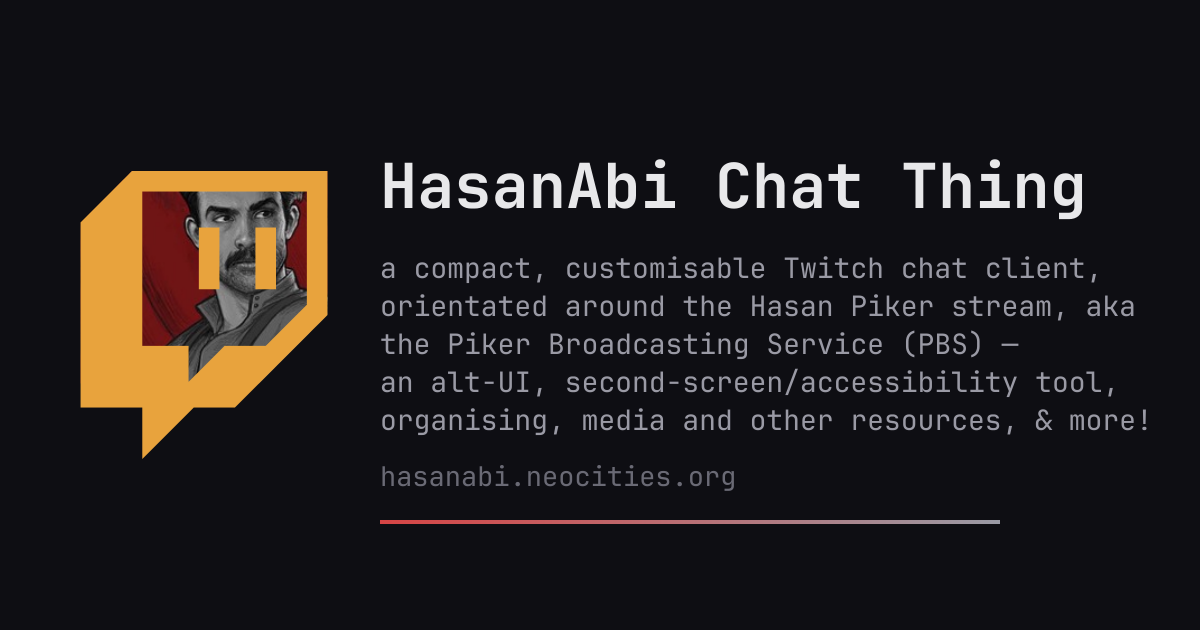
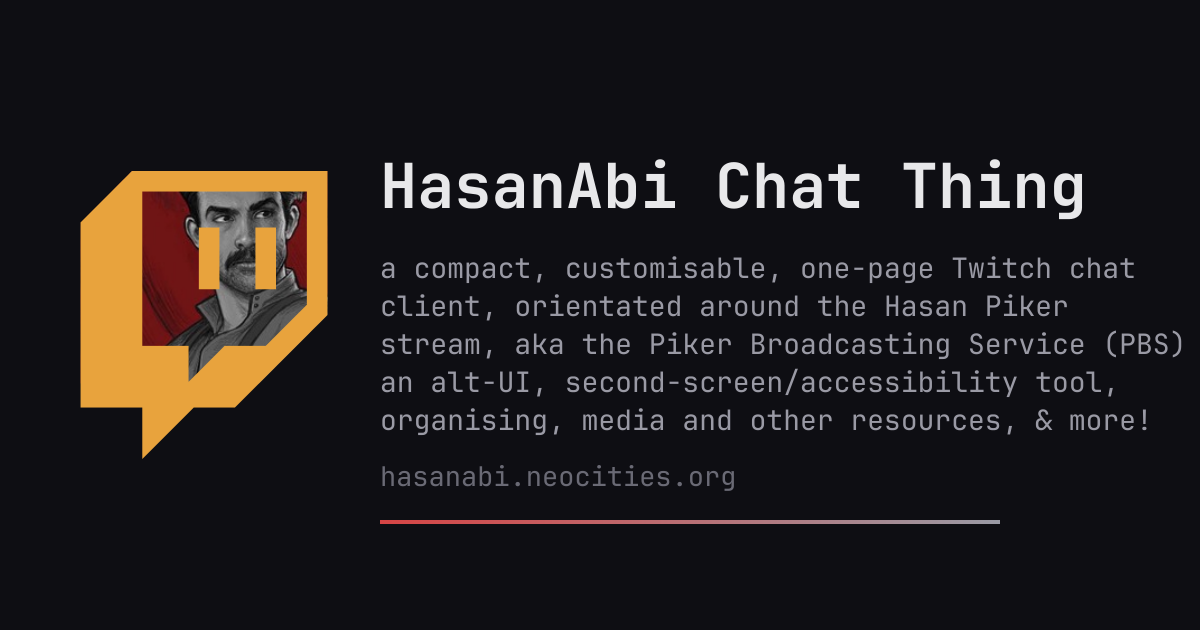
about card: one-page joins the tagline
og-src.svg reflowed so the longer line still fits the card, og.png
re-rendered, alt texts synced.

Changed region(s): [[0.3083, 0.3921, 0.9867, 0.573]]

diff --git a/about/index.html b/about/index.html
@@ -88,7 +88,7 @@
 </head>
 <body>
 <main>
-  <div class="card"><img src="../og.png" alt="HasanAbi Chat Thing - a compact, customisable Twitch chat client"></div>
+  <div class="card"><img src="../og.png" alt="HasanAbi Chat Thing - a compact, customisable, one-page Twitch chat client"></div>
 
   <p>a self-contained page that liberates the
   <a href="https://www.twitch.tv/hasanabi">HasanAbi</a> Twitch chat, for use as a

diff --git a/CHANGELOG.md b/CHANGELOG.md
@@ -6,6 +6,8 @@ not versions — the page ships continuously to Neocities.
 ## 2026-10-07
 
 ### Features
+- the about/social card tagline gains "one-page" -
+  `a compact, customisable, one-page Twitch chat client`
 - chat-link favicons fall back to icon.horse when duckduckgo's icon
   service errors - a transient 404 used to remove the chip for good
 - `unwall` (reader view, strips walls) joins the unblock row

diff --git a/README.md b/README.md
@@ -1,6 +1,6 @@
 # HasanAbi Chat Thing
 
-![HasanAbi Chat Thing - a compact, customisable Twitch chat client](og.png)
+![HasanAbi Chat Thing - a compact, customisable, one-page Twitch chat client](og.png)
 
 A compact, customizable Twitch chat page for [HasanAbi](https://www.twitch.tv/hasanabi),
 hosted on Neocities — orientated around the Hasan Piker stream, aka the
